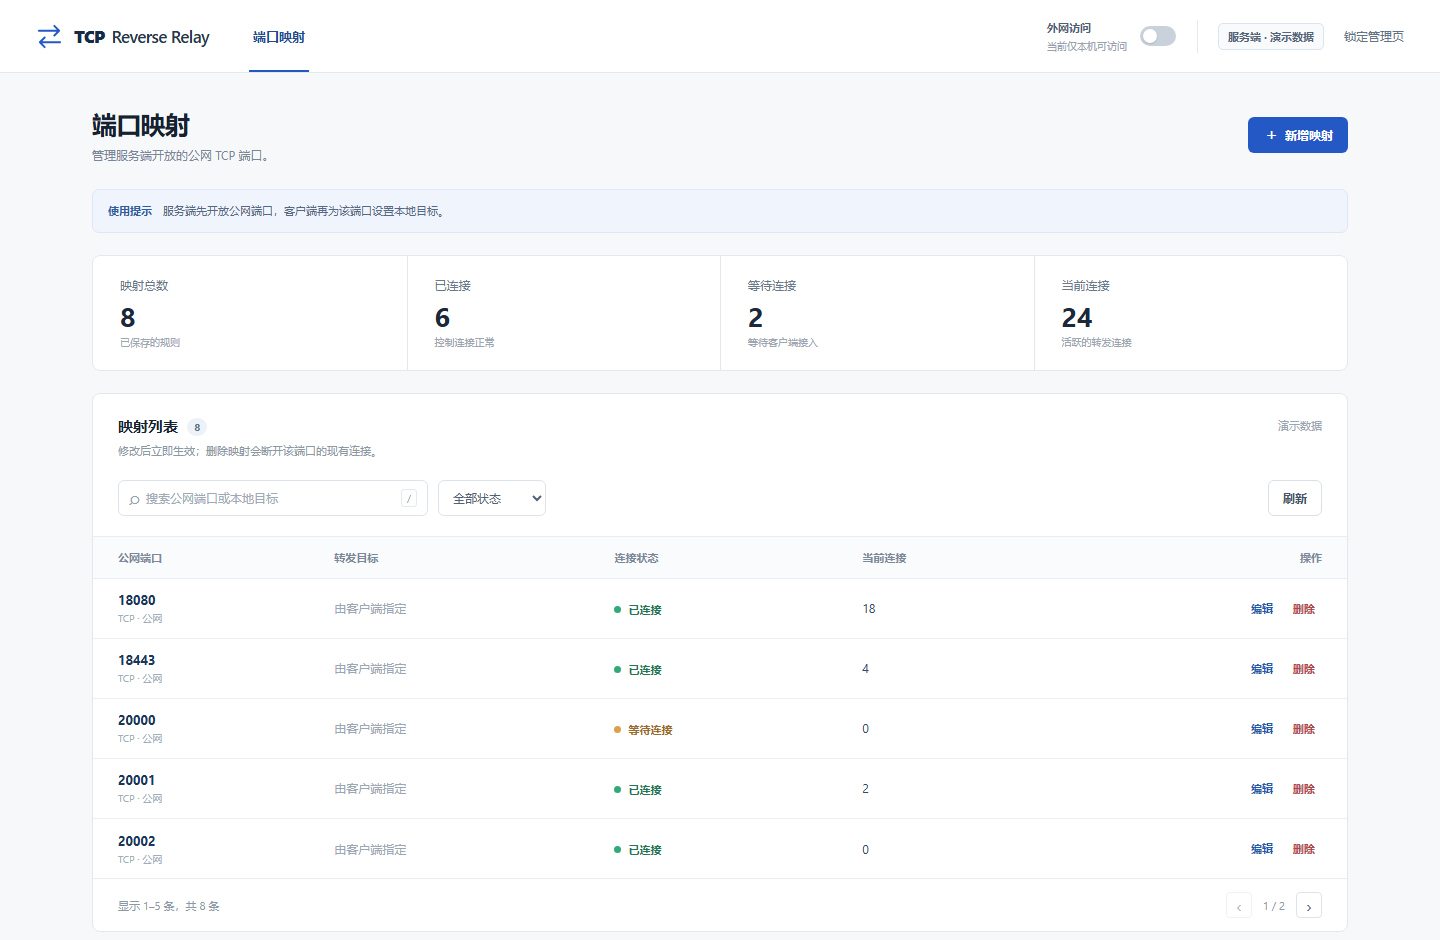
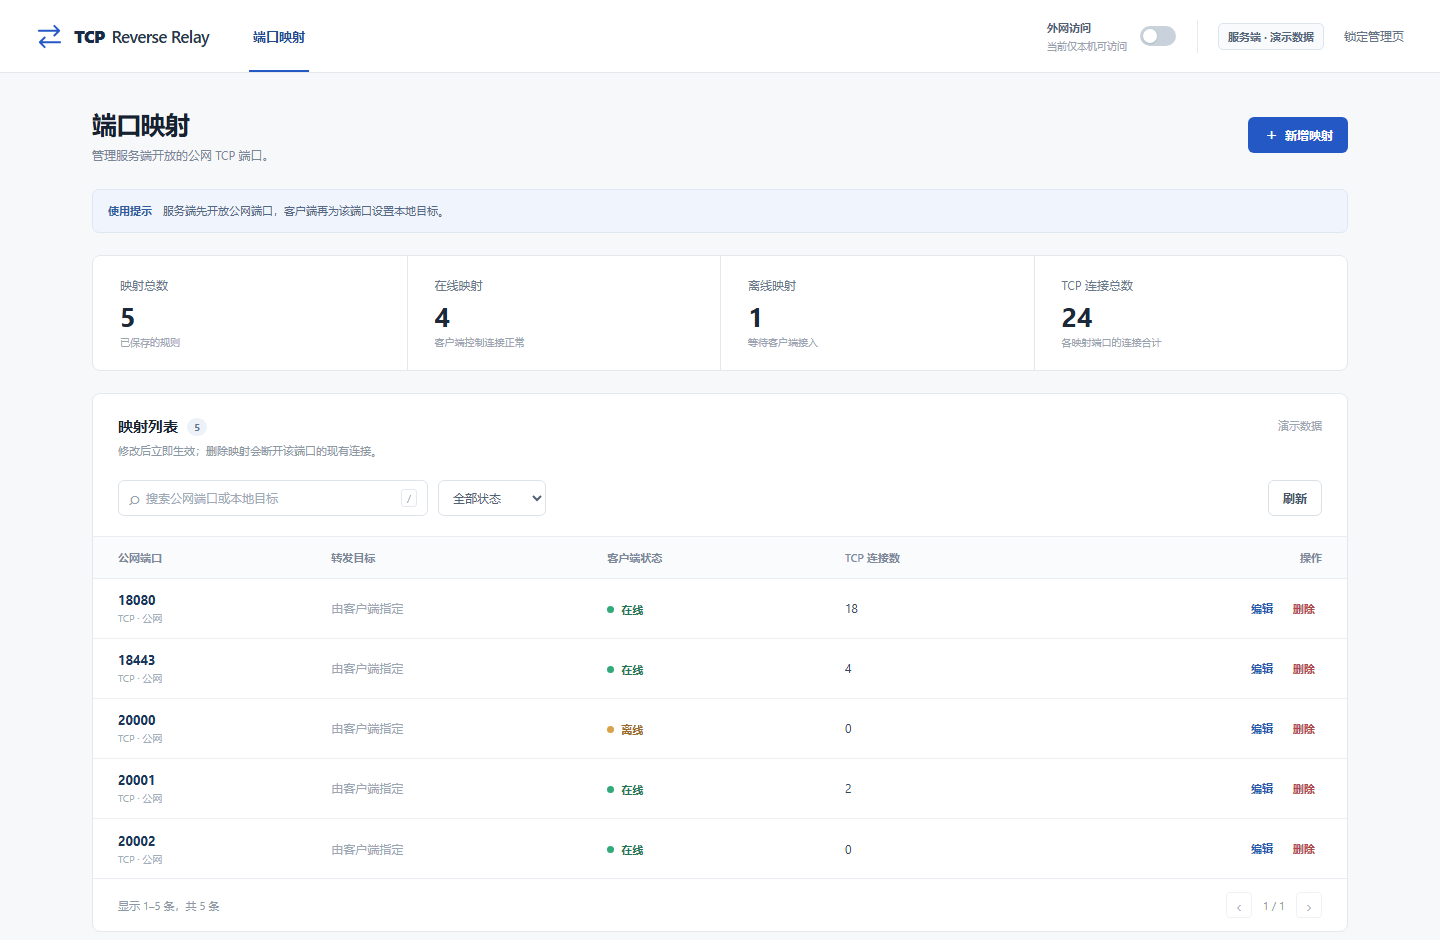
Simplify architecture diagram and clarify connection status labels

diff --git a/src/main/resources/management/index.html b/src/main/resources/management/index.html
@@ -42,9 +42,9 @@
 
             <section class="summary" aria-label="运行概览">
                 <div class="stat-card"><span class="stat-label">映射总数</span><strong id="totalCount">—</strong><small>已保存的规则</small></div>
-                <div class="stat-card"><span class="stat-label">已连接</span><strong id="connectedCount">—</strong><small>控制连接正常</small></div>
-                <div class="stat-card"><span class="stat-label">等待连接</span><strong id="waitingCount">—</strong><small id="waitingCaption">等待客户端接入</small></div>
-                <div class="stat-card"><span class="stat-label" id="activityLabel">当前连接</span><strong id="activityCount">—</strong><small id="activityCaption">活跃的转发连接</small></div>
+                <div class="stat-card"><span class="stat-label" id="connectedLabel" title="已建立客户端控制连接的映射数量">在线映射</span><strong id="connectedCount">—</strong><small id="connectedCaption">客户端控制连接正常</small></div>
+                <div class="stat-card"><span class="stat-label" id="waitingLabel">离线映射</span><strong id="waitingCount">—</strong><small id="waitingCaption">等待客户端接入</small></div>
+                <div class="stat-card"><span class="stat-label" id="activityLabel" title="各端口当前保留的外部 TCP 连接之和，包含等待接通的连接">TCP 连接总数</span><strong id="activityCount">—</strong><small id="activityCaption">各映射端口的连接合计</small></div>
             </section>
 
             <section class="panel" aria-labelledby="listTitle">
@@ -54,10 +54,10 @@
                 </div>
                 <div class="toolbar">
                     <label class="search"><span class="search-icon" aria-hidden="true">⌕</span><input id="searchInput" type="search" placeholder="搜索公网端口或本地目标" autocomplete="off" disabled><span class="shortcut">/</span></label>
-                    <select id="statusFilter" aria-label="按连接状态筛选" disabled>
+                    <select id="statusFilter" aria-label="按客户端状态筛选" disabled>
                         <option value="all">全部状态</option>
-                        <option value="connected">已连接</option>
-                        <option value="waiting">等待连接</option>
+                        <option value="connected">在线</option>
+                        <option value="waiting">离线</option>
                     </select>
                     <button class="button button-quiet" id="refreshButton" type="button" disabled>刷新</button>
                 </div>
@@ -66,8 +66,8 @@
                         <thead><tr>
                             <th>公网端口</th>
                             <th id="targetHeader">转发目标</th>
-                            <th>连接状态</th>
-                            <th id="connectionsHeader">当前连接</th>
+                            <th id="statusHeader" title="该端口对应客户端的控制连接状态，不代表本地目标服务的健康状态">客户端状态</th>
+                            <th id="connectionsHeader" title="当前保留的外部 TCP 连接，含等待接通的连接；不含控制连接，也不是访问人数或累计请求数">TCP 连接数</th>
                             <th class="action-heading">操作</th>
                         </tr></thead>
                         <tbody id="mappingRows"><tr><td colspan="5"><div class="empty"><strong>请先登录管理页</strong><p>登录后可查看和管理端口映射。</p></div></td></tr></tbody>

diff --git a/src/main/resources/management/app.js b/src/main/resources/management/app.js
@@ -2,6 +2,7 @@
     'use strict';
     const $ = id => document.getElementById(id);
     const client = document.body.dataset.mode === 'client';
+    const statusText = client ? {connected: '已注册', waiting: '待注册'} : {connected: '在线', waiting: '离线'};
     let setupMode = document.body.dataset.setup === 'true';
     let token = '';
     let forwards = [];
@@ -27,8 +28,17 @@
     configureGate();
     if (client) {
         $('pageSubtitle').textContent = '管理公网端口与本机服务之间的转发关系。';
-        $('waitingCaption').textContent = '等待服务端开放端口';
+        $('connectedLabel').textContent = '已注册映射';
+        $('connectedCaption').textContent = '已与服务端建立控制连接';
+        $('waitingLabel').textContent = '待注册映射';
+        $('waitingCaption').textContent = '连接恢复后自动重试';
+        $('statusHeader').textContent = '注册状态';
+        $('statusHeader').title = '是否已向服务端注册此端口；不代表本地目标服务的健康状态';
+        $('statusFilter').setAttribute('aria-label', '按注册状态筛选');
+        $('statusFilter').querySelector('option[value="connected"]').textContent = statusText.connected;
+        $('statusFilter').querySelector('option[value="waiting"]').textContent = statusText.waiting;
         $('activityLabel').textContent = '本地目标';
+        $('activityLabel').title = '已配置本地目标端口的映射数量';
         $('activityCaption').textContent = '已设置目标的映射';
         $('targetHeader').textContent = '本地目标';
         $('roleHint').textContent = '请先在服务端开放公网端口，再在这里设置相同的端口和本机目标。断线后会自动重试。';
@@ -155,8 +165,16 @@
             const row = document.createElement('tr');
             cell(row, span(String(item.port), 'port-main')).append(span('TCP · 公网', 'port-sub'));
             cell(row, item.target != null ? '127.0.0.1 : ' + item.target : '由客户端指定', item.target == null ? 'target-muted' : 'target-main');
-            cell(row, span(item.connected ? '已连接' : '等待连接', 'status ' + (item.connected ? 'connected' : 'waiting')));
-            if (!client) cell(row, String(item.connections || 0), 'connection-count');
+            const status = span(item.connected ? statusText.connected : statusText.waiting,
+                'status ' + (item.connected ? 'connected' : 'waiting'));
+            status.title = client
+                ? (item.connected ? '已向服务端注册此端口' : '尚未完成注册，客户端会自动重试')
+                : (item.connected ? '该端口的客户端控制连接正常' : '该端口暂无客户端控制连接');
+            cell(row, status);
+            if (!client) {
+                const connections = cell(row, String(item.connections || 0), 'connection-count');
+                connections.title = '当前外部 TCP 连接数，包含等待接通的连接';
+            }
             const actions = document.createElement('div');
             actions.className = 'row-actions';
             const edit = document.createElement('button');

diff --git a/README.md b/README.md
@@ -104,6 +104,11 @@ python -c "import secrets; print(secrets.token_hex(32))" # TOKEN_KEY
 
 首次访问先设置管理密码。新增映射时，先在服务端开放公网端口，再在客户端添加相同的公网端口和本机目标端口。页面修改会立即保存到对应的配置文件；客户端断线重连后会恢复已保存的映射。服务端未开放端口时，客户端会保留配置并持续重试。
 
+| 服务端字段 | 含义 |
+| --- | --- |
+| 客户端状态 | “在线”表示该端口的客户端控制连接正常，不代表本机目标服务已通过健康检查。 |
+| TCP 连接数 | 当前保留的外部 TCP 连接，含等待接通的连接；不含控制连接，不是访问人数或累计请求数。 |
+
 **服务端管理页**：开放公网端口，查看端口状态。
 
 ![服务端管理页示意](assets/management-dashboard.png)
